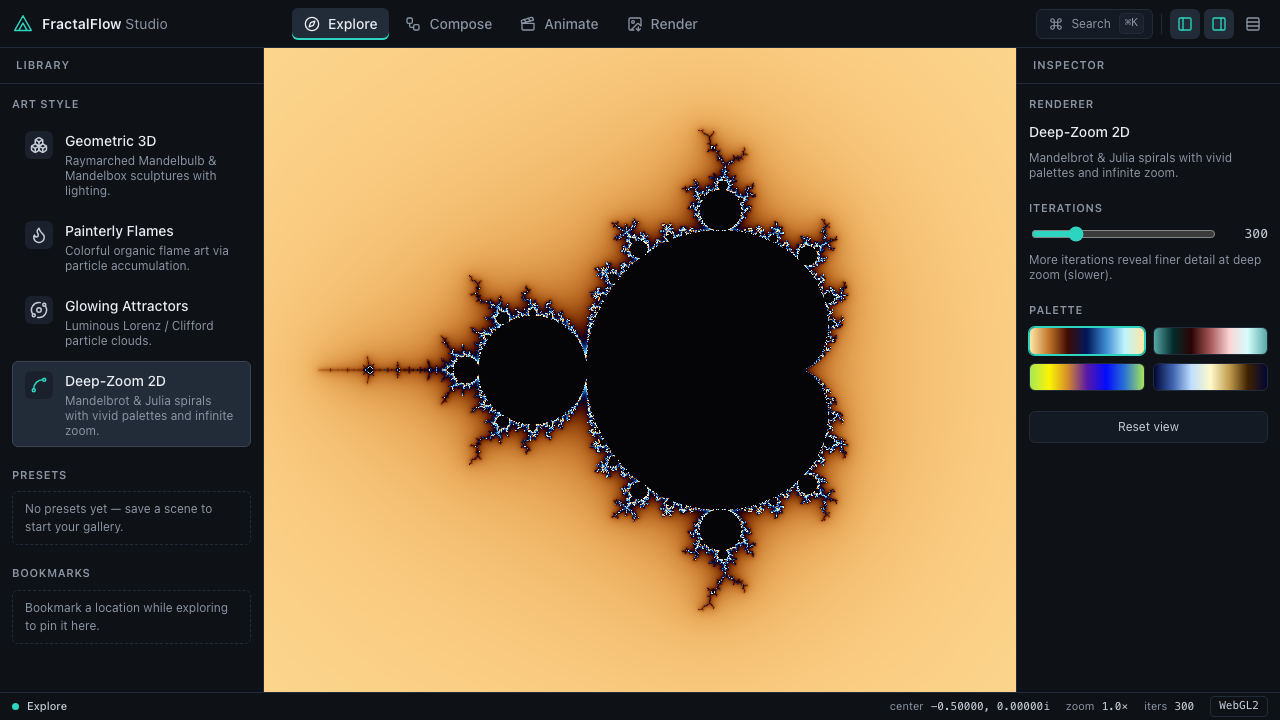
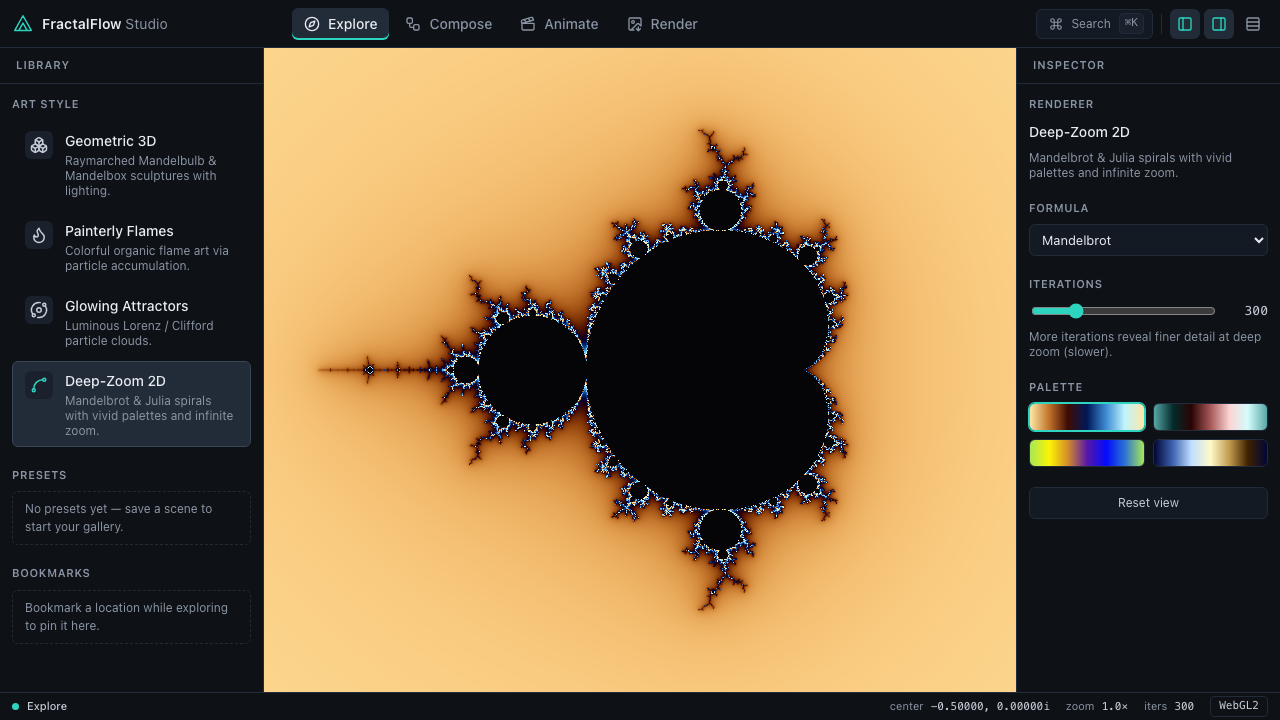
test(e2e): cover formula switching + Julia visual regression
Assert the Formula picker is present, that selecting Julia reveals the
seed inputs (and other formulas hide them), and add a deterministic
Julia visual snapshot. 10 e2e tests passing.

Changed region(s): [[0.7812, 0.275, 1.0, 0.7028]]

diff --git a/e2e/shell.e2e.ts b/e2e/shell.e2e.ts
@@ -27,8 +27,20 @@ test('Inspector exposes live Deep-Zoom 2D controls', async ({ page }) => {
 		'Deep-Zoom 2D'
 	);
 	await expect(page.getByLabel('Maximum iterations')).toHaveValue('300');
+	await expect(page.getByLabel('Formula')).toBeVisible();
 	await expect(page.getByRole('button', { name: 'Aurora' })).toBeVisible();
 	await expect(page.getByRole('button', { name: 'Reset view' })).toBeVisible();
+});
+
+test('switching to Julia reveals the seed inputs', async ({ page }) => {
+	await page.goto('/explore');
+	await waitForEngine(page);
+	await page.getByLabel('Formula').selectOption('julia');
+	await expect(page.getByLabel('Julia seed real part')).toBeVisible();
+	await expect(page.getByLabel('Julia seed imaginary part')).toBeVisible();
+	// Other formulas hide the seed inputs again.
+	await page.getByLabel('Formula').selectOption('burning-ship');
+	await expect(page.getByLabel('Julia seed real part')).toHaveCount(0);
 });
 
 test('changing iterations updates the status readout', async ({ page }) => {
@@ -67,6 +79,17 @@ test('visual: Explore renders the Mandelbrot', async ({ page }) => {
 	await waitForEngine(page);
 	// The Mandelbrot is static for a fixed scene, so the full page is deterministic.
 	await expect(page).toHaveScreenshot('explore-mandelbrot.png', {
+		fullPage: true,
+		maxDiffPixelRatio: 0.02
+	});
+});
+
+test('visual: Julia set', async ({ page }) => {
+	await page.goto('/explore');
+	await waitForEngine(page);
+	await page.getByLabel('Formula').selectOption('julia');
+	await page.waitForTimeout(300);
+	await expect(page).toHaveScreenshot('explore-julia.png', {
 		fullPage: true,
 		maxDiffPixelRatio: 0.02
 	});